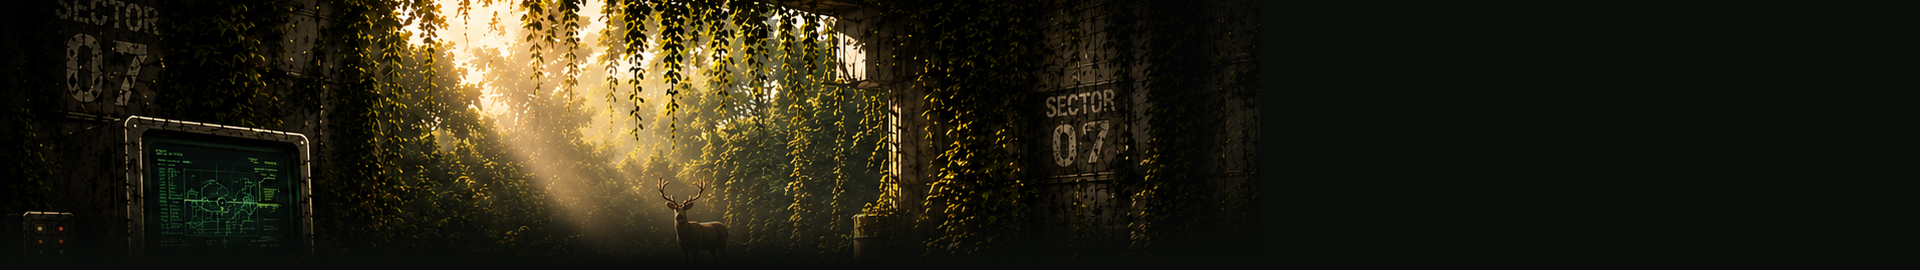
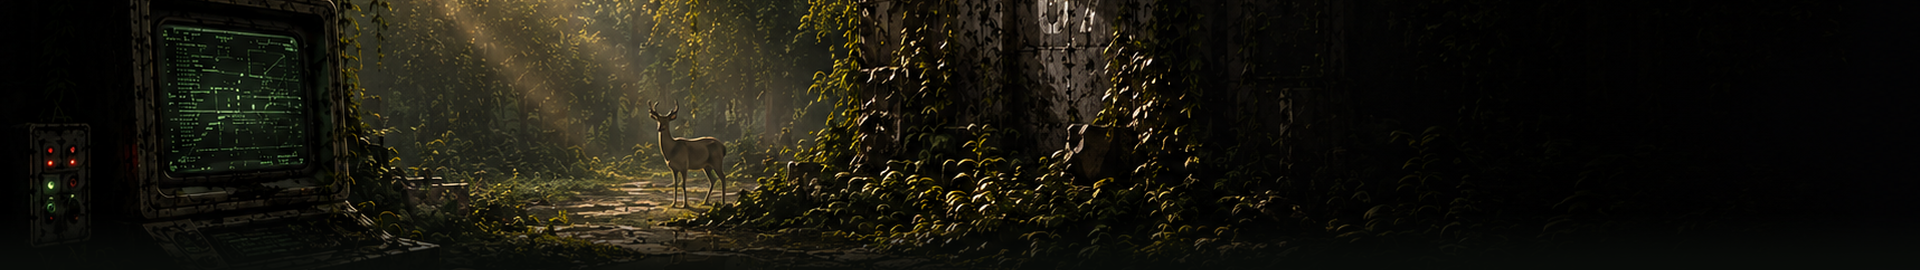
ARCHIVE-EXE-v0.9.31-floor-visible

Changed region(s): [[0.0, 0.0, 0.6562, 0.9481], [0.0, 0.7407, 0.0312, 0.8], [0.0, 0.6519, 0.0312, 0.7111]]

diff --git a/styles.css b/styles.css
@@ -1189,3 +1189,30 @@ main{max-width:1540px;margin:auto;padding:0 26px 70px}
     background-position:34% top!important;
   }
 }
+
+
+/* =========================================================
+   v0.9.31 — FLOOR VISIBLE
+   Exact same 1920×270 hero geometry; only the artwork slice
+   is shifted downward to include the deer legs and floor.
+   ========================================================= */
+
+.hero{
+  height:270px!important;
+  min-height:270px!important;
+  max-height:270px!important;
+}
+
+.hero-art{
+  background-image:url('assets/header.png')!important;
+  background-size:100% 270px!important;
+  background-position:center top!important;
+  background-repeat:no-repeat!important;
+  filter:none!important;
+  transform:none!important;
+}
+
+.hero-dark,
+.hero-fade{
+  background:transparent!important;
+}

diff --git a/README.md b/README.md
@@ -1,9 +1,7 @@
-# ARCHIVE.EXE v0.9.30 — Exact Hero 1920×270
+# ARCHIVE.EXE v0.9.31 — Floor Visible
 
-- Final desktop hero asset is exactly 1920×270 px.
-- The browser does not use `cover` on the 1920px desktop layout.
-- Terminal, deer, sunlight and visible floor are composed inside the 270px image itself.
-- The right side is already faded to the page background for the real ARCHIVE.EXE HTML text.
-- The bottom of the image is already faded to exact site background `#090c09`.
-- No blur, brightness, zoom, artificial hero crop, or hero motion layer in this patch.
-- Based on stable v0.9.21 toolbar/catalog build; existing catalog/glitch/easter-egg functionality remains.
+- Keeps the exact 1920×270 desktop hero size.
+- Moves the source crop downward instead of changing the banner size.
+- Deer is visible with legs and the real cracked/wet floor is now inside the image.
+- Bottom 65px gently fade into site background #090c09.
+- No browser crop, no cover, no blur, no brightness filter.
